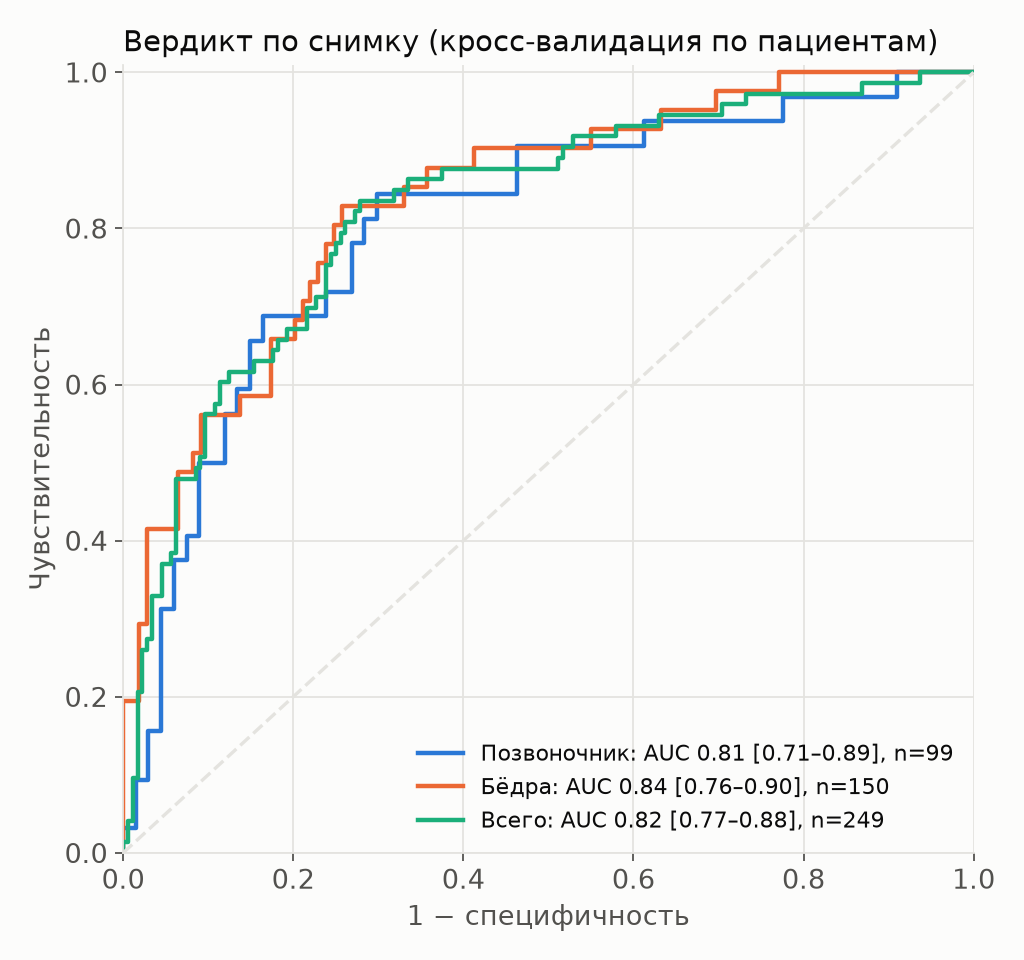
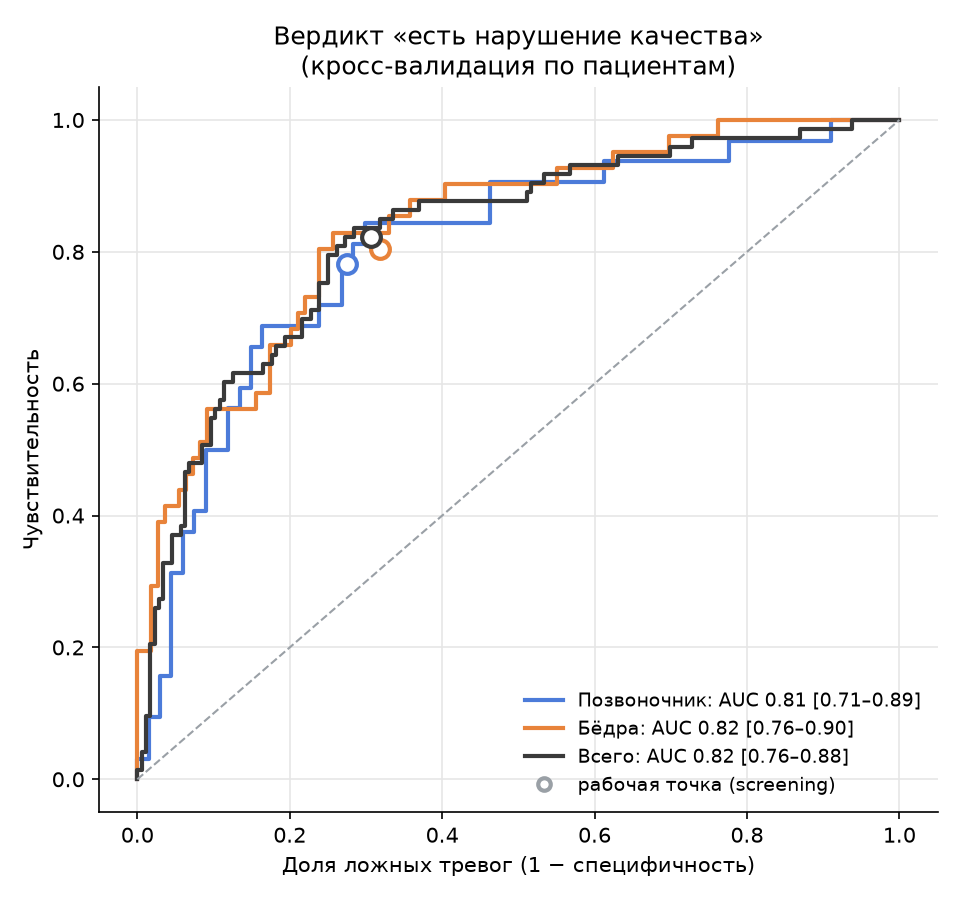
Воспроизводимые графики питча и пересчёт ошибок детектора в мм
scripts/figures.py строит все четыре графика из сохранённых артефактов
оценки, поэтому они не могут разойтись с отчётом. Ошибки детектора
пересчитаны в правильном масштабе (0.60-0.64 мм/пикс): медианы
0.6-6.4 мм вместо завышенных на треть прежних значений.
На ROC отмечена рабочая точка.

diff --git a/scripts/figures.py b/scripts/figures.py
@@ -1,0 +1,148 @@
+"""Regenerate the pitch figures from the saved evaluation artefacts.
+
+Every number comes from files the evaluation scripts write, so the figures cannot drift from the
+report: docs/figures/{detector_errors,roc_regions,auc_by_type,rotation_approaches}.png
+
+Usage: python scripts/figures.py   (after train_keypoints.py, eval_pipeline.py, rotation_experiments.py)
+"""
+import json
+from pathlib import Path
+
+import matplotlib
+import numpy as np
+import pandas as pd
+
+matplotlib.use("Agg")
+import matplotlib.pyplot as plt  # noqa: E402
+from sklearn.metrics import roc_curve  # noqa: E402
+
+OUT = Path("docs/figures")
+BLUE, ORANGE, GREY = "#4C7BD9", "#E8833A", "#9AA0A6"
+NAMES = {"col_top": "Столб, верх", "col_bottom": "Столб, уровень таза", "crest_a": "Крыло таза слева",
+         "crest_b": "Крыло таза справа", "fh_c": "Центр головки", "fh_top": "Верх головки",
+         "fn_c": "Шейка", "gt_top": "Большой вертел, верх", "gt_lat": "Большой вертел, край",
+         "lt": "Малый вертел", "isch": "Седалищная кость", "shaft_p": "Диафиз под МВ",
+         "shaft_d": "Диафиз внизу"}
+TYPE_RU = {"spine:v_axis": "Наклон оси", "spine:v_pos": "Укладка (гребни)", "spine:v_artifact": "Инородные тела",
+           "hip:v_roi": "Поля кадра бедра", "hip:v_posrot": "Ротация бедра"}
+
+
+def style(ax):
+    ax.spines[["top", "right"]].set_visible(False)
+    ax.grid(axis="x", color="#E6E6E6", lw=0.8)
+    ax.set_axisbelow(True)
+
+
+def detector_errors():
+    """Landmark error in mm, per point, from out-of-fold predictions vs the manual annotation."""
+    idx = pd.read_csv("data/train/image_index.csv")
+    idx["id"] = idx.n.map("{:03d}".format) + "_" + idx.region
+    idx = idx.set_index("id")
+    kp = json.loads(Path("data/train/keypoints.json").read_text())
+    oof = {**json.loads(Path("data/train/kp_oof_spine.json").read_text()),
+           **json.loads(Path("data/train/kp_oof_hip.json").read_text())}
+    rows = []
+    for i, d in oof.items():
+        mm = float(idx.loc[i, "mm_per_px"])       # pixel size of that image (DICOM tag)
+        for k, p in d["points"].items():
+            q = kp[i]["points"].get(k)
+            if p and q:
+                rows.append({"point": k, "region": "spine" if i.endswith("spine") else "hip",
+                             "err": float(np.hypot(p[0] - q[0], p[1] - q[1]) * mm)})
+    e = pd.DataFrame(rows).groupby(["region", "point"]).err.agg(["median", lambda s: s.quantile(0.9)])
+    e.columns = ["median", "p90"]
+    e = e.reset_index().sort_values(["region", "median"], ascending=[False, True])
+    fig, ax = plt.subplots(figsize=(9, 6))
+    y = np.arange(len(e))
+    for k, (_, r) in enumerate(e.iterrows()):
+        c = BLUE if r.region == "spine" else ORANGE
+        ax.plot([r["median"], r["p90"]], [y[k], y[k]], color=c, alpha=0.45, lw=2.5, solid_capstyle="round")
+        ax.plot(r["median"], y[k], "o", color=c, ms=7)
+        ax.text(r["p90"] + 0.3, y[k], f"{r['median']:.1f} мм", va="center", fontsize=9, color="#444")
+    ax.set_yticks(y, [NAMES.get(p, p) for p in e.point])
+    ax.set_xlabel("Ошибка, мм: точка — медиана, линия — до 90-го перцентиля")
+    ax.set_title("Точность детектора ключевых точек")
+    ax.plot([], [], "o-", color=BLUE, label="Позвоночник")
+    ax.plot([], [], "o-", color=ORANGE, label="Бедро")
+    ax.legend(frameon=False, loc="lower right")
+    style(ax)
+    fig.tight_layout()
+    fig.savefig(OUT / "detector_errors.png", dpi=150)
+    plt.close(fig)
+
+
+def roc_regions():
+    """ROC of the image verdict score, per region, from the honest out-of-fold run."""
+    df = pd.read_csv("data/train/pipeline_oof.csv")
+    rep = json.loads(Path("data/train/pipeline_eval.json").read_text())
+    fig, ax = plt.subplots(figsize=(6.4, 6))
+    for name, sub, c in (("Позвоночник", df[df.id.str.endswith("spine")], BLUE),
+                         ("Бёдра", df[df.id.str.contains("hip")], ORANGE),
+                         ("Всего", df, "#3A3A3A")):
+        fpr, tpr, _ = roc_curve(sub.y.astype(int), sub.score)
+        key = {"Позвоночник": "spine", "Бёдра": "hip", "Всего": "overall"}[name]
+        auc, ci = rep["regions"][key]["auc"]
+        ax.plot(fpr, tpr, color=c, lw=2, label=f"{name}: AUC {auc:.2f} [{ci[0]:.2f}–{ci[1]:.2f}]")
+        sens, spec = rep["regions"][key]["sens"][0], rep["regions"][key]["spec"][0]
+        ax.plot(1 - spec, sens, "o", color=c, ms=9, mfc="white", mew=2)   # shipped operating point
+    ax.plot([0, 1], [0, 1], color=GREY, lw=1, ls="--")
+    ax.set_xlabel("Доля ложных тревог (1 − специфичность)")
+    ax.set_ylabel("Чувствительность")
+    ax.set_title("Вердикт «есть нарушение качества»\n(кросс-валидация по пациентам)")
+    ax.plot([], [], "o", color=GREY, mfc="white", mew=2, label="рабочая точка (screening)")
+    ax.legend(frameon=False, loc="lower right", fontsize=9)
+    style(ax)
+    ax.grid(color="#E6E6E6", lw=0.8)
+    fig.tight_layout()
+    fig.savefig(OUT / "roc_regions.png", dpi=150)
+    plt.close(fig)
+
+
+def auc_by_type():
+    rep = json.loads(Path("data/train/pipeline_eval.json").read_text())["types"]
+    items = sorted(rep.items(), key=lambda kv: kv[1]["auc"])
+    fig, ax = plt.subplots(figsize=(8, 4.2))
+    y = np.arange(len(items))
+    for k, (name, v) in enumerate(items):
+        c = BLUE if name.startswith("spine") else ORANGE
+        ax.barh(y[k], v["auc"], color=c, height=0.55)
+        ax.text(v["auc"] + 0.01, y[k], f"{v['auc']:.2f}  ({v['n_pos']} нарушений)", va="center", fontsize=9, color="#444")
+    ax.axvline(0.5, color=GREY, lw=1, ls="--")
+    ax.set_yticks(y, [TYPE_RU.get(n, n) for n, _ in items])
+    ax.set_xlim(0.4, 1.12)
+    ax.set_xlabel("ROC-AUC по типу нарушения")
+    ax.set_title("Точность по типам нарушений")
+    style(ax)
+    fig.tight_layout()
+    fig.savefig(OUT / "auc_by_type.png", dpi=150)
+    plt.close(fig)
+
+
+def rotation_approaches():
+    """Every approach tried for hip rotation, as measured honestly (detector crops)."""
+    vals = [("Геометрия по точкам", 0.72), ("HOG + лог. регрессия", 0.67), ("Своя CNN", 0.73),
+            ("Многозадачная сеть\n(точки + ротация)", 0.69), ("HOG + случайный лес", 0.81)]
+    fig, ax = plt.subplots(figsize=(8, 4))
+    y = np.arange(len(vals))
+    for k, (name, v) in enumerate(vals):
+        c = ORANGE if k == len(vals) - 1 else GREY
+        ax.barh(y[k], v, color=c, height=0.55)
+        ax.text(v + 0.005, y[k], f"{v:.2f}", va="center", fontsize=9, color="#444")
+    ax.axvline(0.5, color=GREY, lw=1, ls="--")
+    ax.set_yticks(y, [n for n, _ in vals])
+    ax.set_xlim(0.45, 0.9)
+    ax.set_xlabel("ROC-AUC (кросс-валидация по пациентам, точки от детектора)")
+    ax.set_title("Ротация бедра: что пробовали")
+    style(ax)
+    fig.tight_layout()
+    fig.savefig(OUT / "rotation_approaches.png", dpi=150)
+    plt.close(fig)
+
+
+if __name__ == "__main__":
+    OUT.mkdir(parents=True, exist_ok=True)
+    detector_errors()
+    roc_regions()
+    auc_by_type()
+    rotation_approaches()
+    print("figures ->", OUT)

diff --git a/docs/night_report.md b/docs/night_report.md
@@ -21,13 +21,16 @@ CSV/XLSX в формате ТЗ + картинки, DICOM SC и DICOM SR. Ест
 
 | Точка | Медианная ошибка | 90-й перцентиль |
 |---|---|---|
-| Середина столба, верх | 1.2 мм | 3.4 мм |
-| Середина столба, уровень таза | 5.0 мм | 14 мм |
-| Крылья таза | 7 мм | 16 мм |
-| Большой вертел (верх / край) | 3.6 / 3.7 мм | 15 / 11 мм |
-| Малый вертел | 2.4 мм | 6 мм |
-| Головка, шейка, седалищная кость | 6–8 мм | 11–17 мм |
-| Диафиз внизу | 0.8 мм | 6 мм |
+| Середина столба, верх | 0.9 мм | 2.5 мм |
+| Середина столба, уровень таза | 3.8 мм | 11 мм |
+| Крылья таза | 5.4 / 5.6 мм | 12 мм |
+| Большой вертел (верх / край) | 2.7 / 2.8 мм | 12 / 9 мм |
+| Малый вертел | 1.8 мм | 4.7 мм |
+| Шейка / головка / седалищная кость | 4.5 / 5.7 / 6.0 мм | 8–13 мм |
+| Диафиз под малым вертелом / внизу | 6.4 / 0.6 мм | 13 / 4.7 мм |
+
+(миллиметры пересчитаны в правильном масштабе 0.60–0.64 мм/пикс, см. раздел 7; в первой версии отчёта
+они были завышены на треть. График: `docs/figures/detector_errors.png`, скрипт `scripts/figures.py`.)
 
 «Точка в кадре или нет» — 95–100 %; для малого вертела 90 %.
 Картинки: `docs/night/oof_spine.png`, `docs/night/oof_hip.png` (○ ручная разметка, ● предсказание).

diff --git a/docs/pitch_outline.md b/docs/pitch_outline.md
@@ -63,7 +63,7 @@
 
 По типам нарушений: наклон оси 0.89, укладка 0.76, инородные тела 0.85, поля кадра бедра 0.90, ротация 0.80.
 
-Детектор точек: 1–8 мм по точкам (`figures/detector_errors.png`).
+Детектор точек: медиана 0.6–6.4 мм в зависимости от точки (`figures/detector_errors.png`).
 
 ## 7. Анализ ошибок (`night/errors_*.png`)
 
